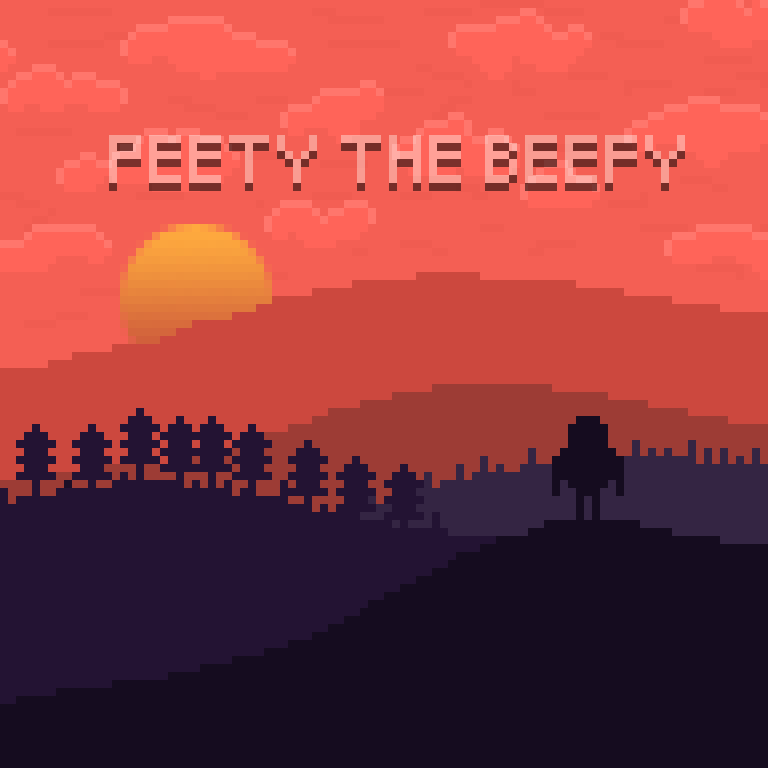
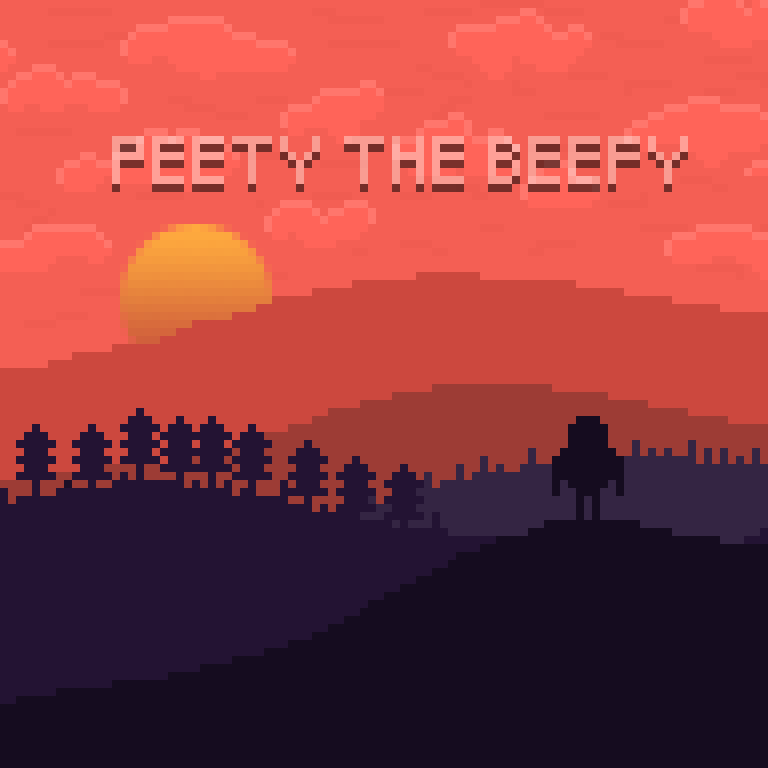
Main menu backgrounds

Changed region(s): [[0.125, 0.1562, 0.9062, 0.25]]

diff --git a/Code/Releases/PeetyTheBeefy/core/src/gdx/peetythebeefy/ScrStageSelect.java b/Code/Releases/PeetyTheBeefy/core/src/gdx/peetythebeefy/ScrStageSelect.java
@@ -23,13 +23,13 @@ public class ScrStageSelect implements Screen {
 
     PeetyTheBeefy game;
     SpriteBatch batch;
-    Texture img;
+    Texture texMenu;
     ArrayList<gdx.peetythebeefy.cookiecutters.Buttons> alButtons = new ArrayList<Buttons>();
 
     public ScrStageSelect(PeetyTheBeefy game) {
         this.game = game;
         this.batch = game.batch;
-        img = new Texture("badlogic.jpg");
+        texMenu = new Texture("mainMenu2.png");
     }
 
     @Override
@@ -39,13 +39,21 @@ public class ScrStageSelect implements Screen {
 
     @Override
     public void render(float f) {
-        Gdx.gl.glClearColor(20/255f, 10/255f, 50/255f, 1);
+        Gdx.gl.glClearColor(20 / 255f, 10 / 255f, 50 / 255f, 1);
         Gdx.gl.glClear(GL20.GL_COLOR_BUFFER_BIT);
+
+        batch.begin();
+
+        batch.draw(texMenu, 250, 200);
+        batch.draw(texMenu, 0, 0);
+
+        batch.end();
+
         drawButtons();
     }
 
     public void createButtons() {
-        alButtons.add(new Buttons("b1", batch, 64, nSCREENHEIGHT -128, 64, 64));
+        alButtons.add(new Buttons("b1", batch, 64, nSCREENHEIGHT - 128, 64, 64));
         alButtons.add(new Buttons("backButton", batch, -8, 0, 96, 32));
     }
 
@@ -86,7 +94,7 @@ public class ScrStageSelect implements Screen {
 
     @Override
     public void dispose() {
-        img.dispose();
+        texMenu.dispose();
         batch.dispose();
     }
 }

diff --git a/Code/Releases/PeetyTheBeefy/core/src/gdx/peetythebeefy/ScrControls.java b/Code/Releases/PeetyTheBeefy/core/src/gdx/peetythebeefy/ScrControls.java
@@ -21,11 +21,14 @@ public class ScrControls implements Screen {
 
     PeetyTheBeefy game;
     SpriteBatch batch;
+    Texture texMenu;
     ArrayList<gdx.peetythebeefy.cookiecutters.Buttons> alButtons = new ArrayList<Buttons>();
 
     public ScrControls(PeetyTheBeefy game) {
         this.game = game;
         this.batch = game.batch;
+        texMenu = new Texture("mainMenu2.png");
+
     }
 
     @Override
@@ -37,6 +40,14 @@ public class ScrControls implements Screen {
     public void render(float f) {
         Gdx.gl.glClearColor(0, 0, 1, 1);
         Gdx.gl.glClear(GL20.GL_COLOR_BUFFER_BIT);
+        
+        batch.begin();
+
+        batch.draw(texMenu, 250, 200);
+        batch.draw(texMenu, 0, 0);
+
+        batch.end();
+        
         drawButtons();
     }
 
@@ -75,6 +86,7 @@ public class ScrControls implements Screen {
 
     @Override
     public void dispose() {
+        texMenu.dispose();
         batch.dispose();
     }
 }

diff --git a/Code/Releases/PeetyTheBeefy/core/src/gdx/peetythebeefy/ScrMainMenu.java b/Code/Releases/PeetyTheBeefy/core/src/gdx/peetythebeefy/ScrMainMenu.java
@@ -105,6 +105,7 @@ public class ScrMainMenu implements Screen, InputProcessor {
 
     @Override
     public void dispose() {
+        texMenu.dispose();
     }
 
     @Override
